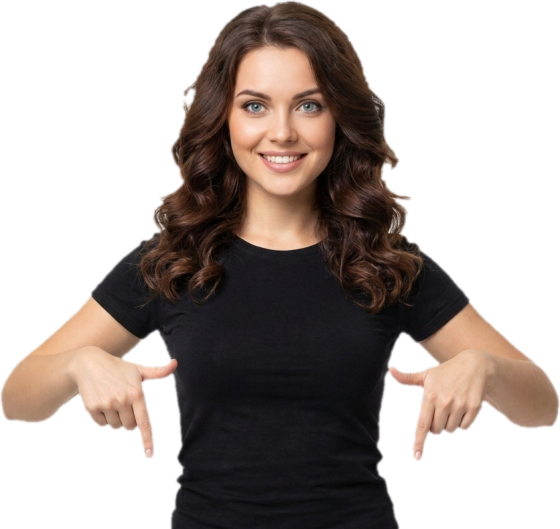
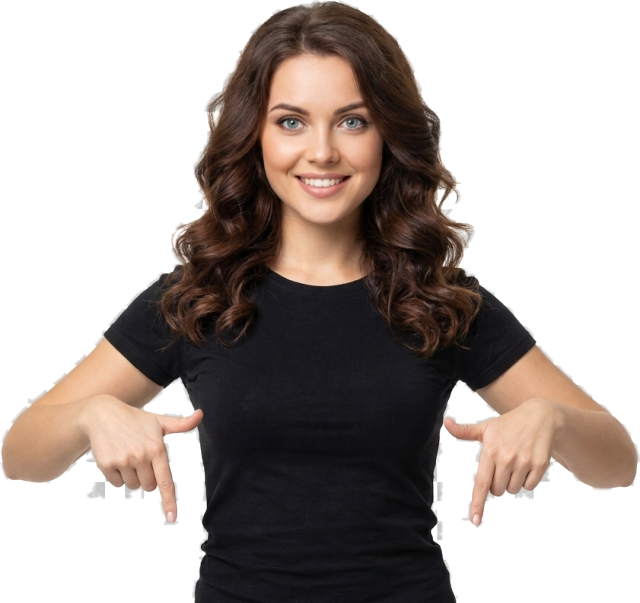
Fix modal scroll (freeze page, opt out of smooth scroller); better hair cutout
Claude-Session: https://claude.ai/code/session_01WE9vzoQ9mtr5P73SHN7FAP

diff --git a/components/sections/specialist-card.tsx b/components/sections/specialist-card.tsx
@@ -32,6 +32,19 @@ export function SpecialistCard({ index }: { index: number }) {
     if (!open && dialog.open) dialog.close();
   }, [open]);
 
+  /* The site uses smooth scrolling that captures the mouse wheel for the
+     page. While the form is open, freeze the page behind it (the form itself
+     opts out of the smooth scroller with data-lenis-prevent). */
+  useEffect(() => {
+    if (!open) return;
+    const root = document.documentElement;
+    const previous = root.style.overflow;
+    root.style.overflow = "hidden";
+    return () => {
+      root.style.overflow = previous;
+    };
+  }, [open]);
+
   const close = () => {
     setOpen(false);
     setError("");
@@ -123,7 +136,8 @@ export function SpecialistCard({ index }: { index: number }) {
           if (e.target === dialogRef.current) close();
         }}
         aria-label="Join our specialist network"
-        className="m-auto max-h-[92dvh] w-[min(94vw,30rem)] max-w-none overflow-y-auto rounded-2xl border border-white/15 bg-[#0b1020] p-0 text-paper backdrop:bg-black/75 backdrop:backdrop-blur-sm"
+        data-lenis-prevent
+        className="m-auto max-h-[92dvh] w-[min(94vw,30rem)] max-w-none overflow-y-auto overscroll-contain rounded-2xl border border-white/15 bg-[#0b1020] p-0 text-paper backdrop:bg-black/75 backdrop:backdrop-blur-sm"
       >
         {open && (
           <div className="p-5 sm:p-6">

diff --git a/components/shared/video-modal.tsx b/components/shared/video-modal.tsx
@@ -40,6 +40,18 @@ export function VideoModal({
     if (!open && dialog.open) dialog.close();
   }, [open]);
 
+  /* Freeze the page behind the player (the site's smooth scroller would
+     otherwise keep scrolling it). */
+  useEffect(() => {
+    if (!open) return;
+    const root = document.documentElement;
+    const previous = root.style.overflow;
+    root.style.overflow = "hidden";
+    return () => {
+      root.style.overflow = previous;
+    };
+  }, [open]);
+
   const close = () => {
     videoRef.current?.pause();
     onClose();
@@ -59,7 +71,8 @@ export function VideoModal({
         if (e.target === dialogRef.current) close();
       }}
       aria-label={heading}
-      className="m-auto w-[min(92vw,46rem)] max-w-none rounded-2xl border border-white/15 bg-[#0b1020] p-0 text-paper backdrop:bg-black/75 backdrop:backdrop-blur-sm"
+      data-lenis-prevent
+      className="m-auto overscroll-contain w-[min(92vw,46rem)] max-w-none rounded-2xl border border-white/15 bg-[#0b1020] p-0 text-paper backdrop:bg-black/75 backdrop:backdrop-blur-sm"
     >
       {open && (
         <div className="p-3 sm:p-4">
